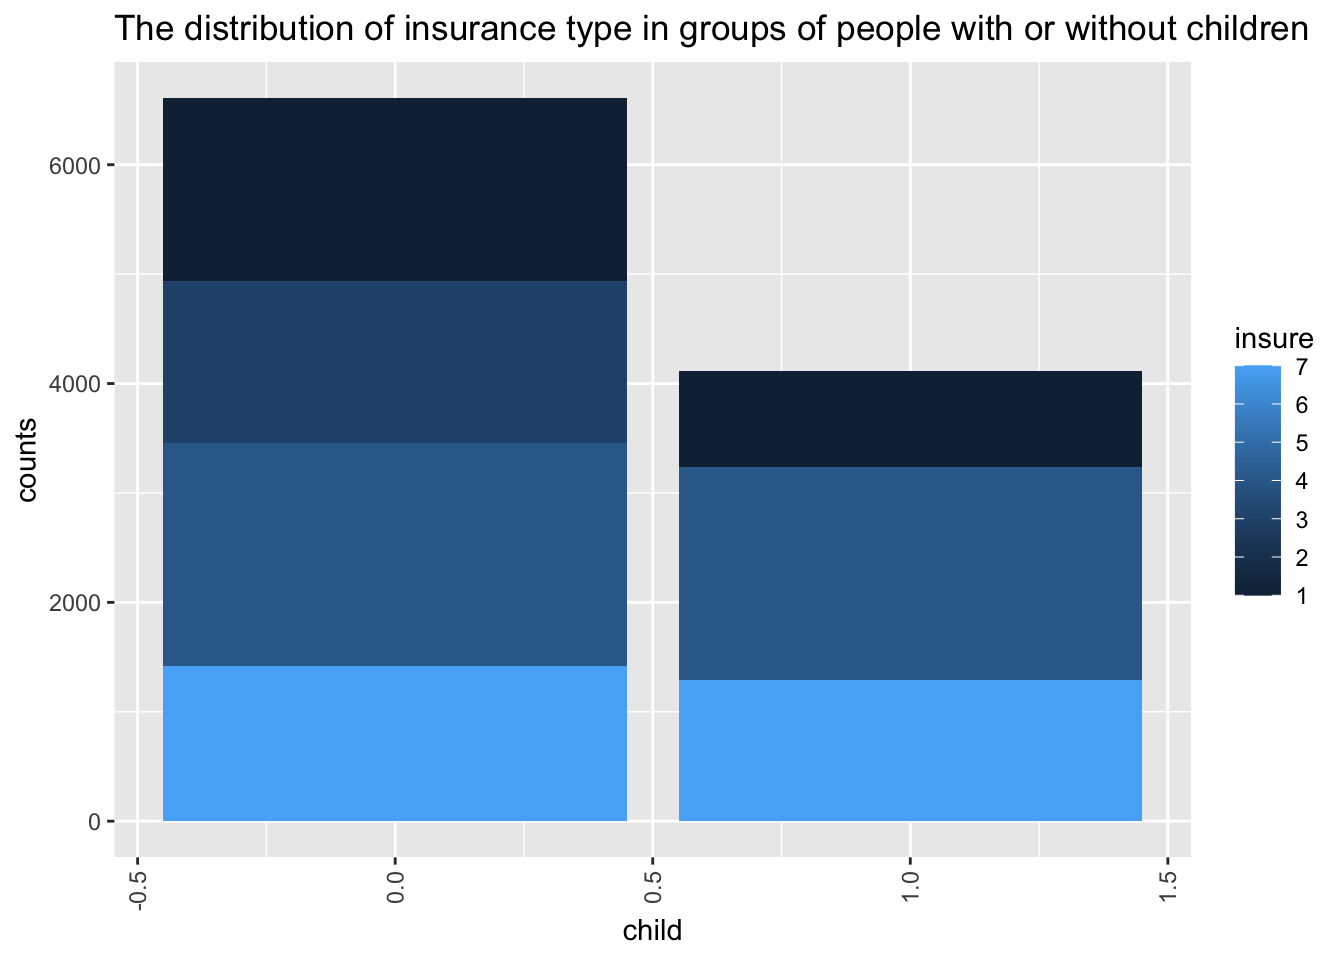
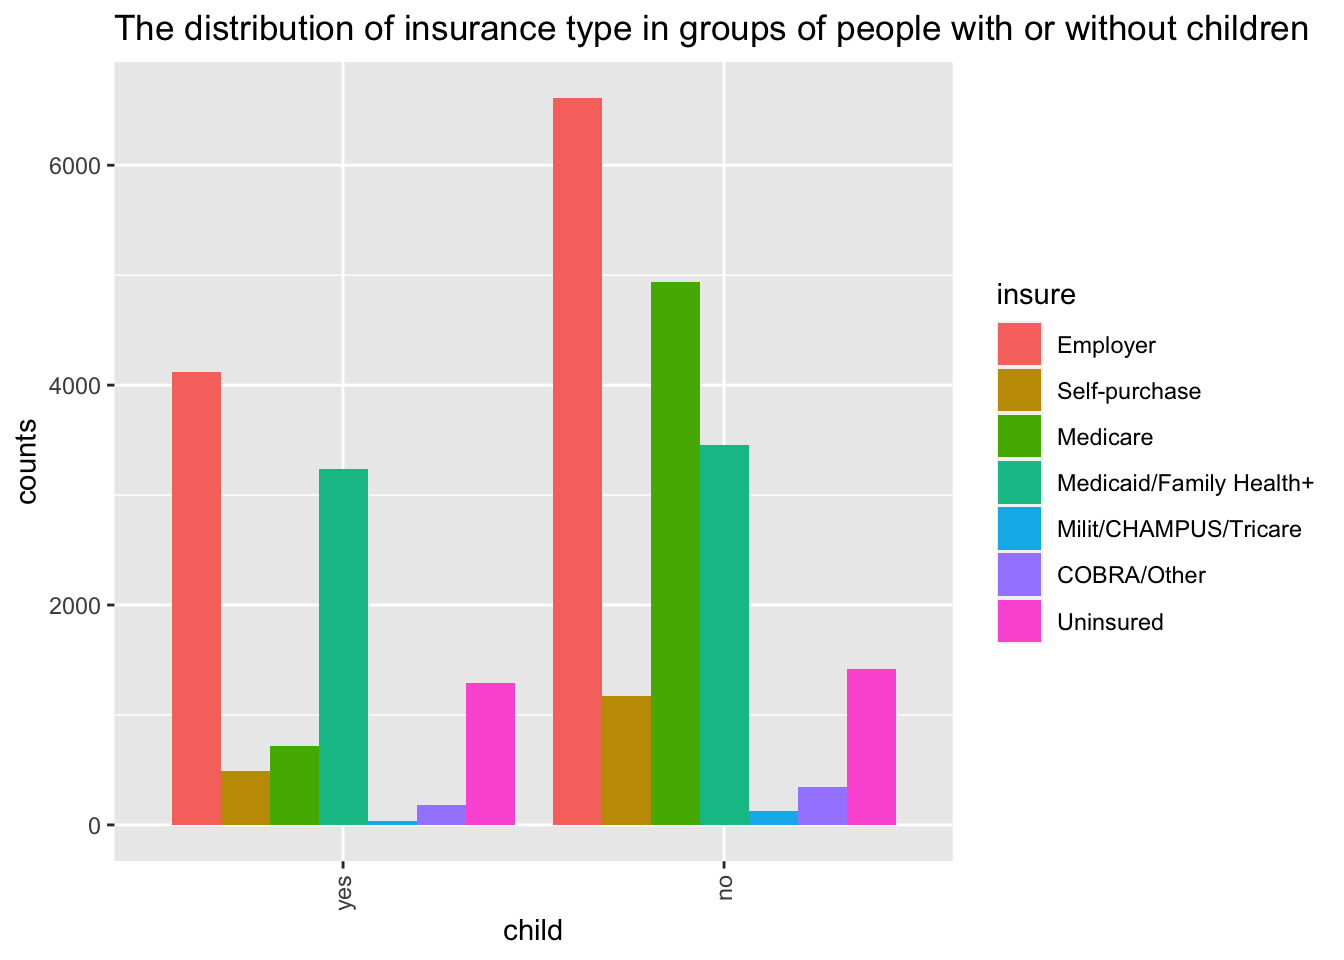
ll

diff --git a/exploration.html b/exploration.html
@@ -253,8 +253,20 @@ $(document).ready(function () {
         <li>
   <a href="exploration.html">Data exploration</a>
 </li>
-<li>
-  <a href="model-building.html">Model building</a>
+<li class="dropdown">
+  <a href="#" class="dropdown-toggle" data-toggle="dropdown" role="button" aria-expanded="false">
+    Model building
+     
+    <span class="caret"></span>
+  </a>
+  <ul class="dropdown-menu" role="menu">
+    <li>
+      <a href="model-building.html">? model building</a>
+    </li>
+    <li>
+      <a href="medical_cost.html">Insurance cost model building</a>
+    </li>
+  </ul>
 </li>
 <li>
   <a href="analysis.html">Analysis and discussion</a>
@@ -264,6 +276,9 @@ $(document).ready(function () {
 </li>
 <li>
   <a href="report.html">Report</a>
+</li>
+<li>
+  <a href="https://yiqunjin.shinyapps.io/shiny_dashboard/">Dashboard</a>
 </li>
 <li>
   <a href="mailto:&lt;yw3772@cumc.columbia.com&gt;">
@@ -300,6 +315,13 @@ $(document).ready(function () {
 
 
 <pre class="r"><code>dataset_basic = read_csv(&quot;data/dataset_update.csv&quot;) %&gt;% 
+  mutate(
+         child = factor(child,levels = c(1,2),labels = c(&quot;yes&quot;,&quot;no&quot;)),
+         sex = factor(sex,labels = c(&quot;male&quot;,&quot;female&quot;)),
+         insure = factor(insure,levels = c(1,2,3,4,5,6,7),labels = c(&quot;Employer&quot;,&quot;Self-purchase&quot;,&quot;Medicare&quot;, &quot;Medicaid/Family Health+&quot;, &quot;Milit/CHAMPUS/Tricare&quot;, &quot;COBRA/Other&quot;, &quot;Uninsured&quot;)),
+         smoker = factor(smoker,levels = c(1,2,3),labels = c(&quot;never&quot;,&quot;current&quot;,&quot;former&quot;)),
+         agegroup = factor(agegroup,ordered = TRUE,labels = c(&quot;18-24yrs&quot;,&quot;25-44yrs&quot;, &quot;45-64yrs&quot;, &quot;65+yrs&quot;))
+         ) %&gt;% 
   select(insure,agegroup,smoker,bmi,child,sex)</code></pre>
 <div id="variables-and-insurance" class="section level3 tabset">
 <h3 class="tabset">Variables and insurance</h3>
@@ -363,20 +385,20 @@ dat %$%
 <td align="center">
 <strong>smoker</strong>
 </td>
-<th colspan="4" align="center"> 1</th>
-<th colspan="4" align="center"> 2</th>
-<th colspan="4" align="center"> 3</th>
-<th colspan="4" align="center"> 4</th>
-<th colspan="4" align="center"> 5</th>
-<th colspan="4" align="center"> 6</th>
-<th colspan="4" align="center"> 7</th>
+<th colspan="4" align="center">Employer</th>
+<th colspan="4" align="center">Self-<br/>purchase</th>
+<th colspan="4" align="center">Medicare</th>
+<th colspan="4" align="center">Medicaid/<br/>Family <br/>Health+</th>
+<th colspan="4" align="center">Milit/<br/>CHAMPUS/<br/>Tricare</th>
+<th colspan="4" align="center">COBRA/Other</th>
+<th colspan="4" align="center">Uninsured</th>
 <th colspan="4" align="center">Total</th>
 </tr>
 </thead>
 <tbody>
 <tr>
 <td>
-<strong align="center"> 1</strong>
+<strong align="center">never</strong>
 </td>
 <td align="right" style="padding:0 0 0 15px;border-right:0;text-align:right">7158</td>
 <td align="left" style="padding:0 1px 0 4px;border-left:0;border-right:0;text-align:left">(</td>
@@ -413,7 +435,7 @@ dat %$%
 </tr>
 <tr>
 <td>
-<strong align="center"> 2</strong>
+<strong align="center">current</strong>
 </td>
 <td align="right" style="padding:0 0 0 15px;border-right:0;text-align:right">1135</td>
 <td align="left" style="padding:0 1px 0 4px;border-left:0;border-right:0;text-align:left">(</td>
@@ -450,7 +472,7 @@ dat %$%
 </tr>
 <tr>
 <td>
-<strong align="center"> 3</strong>
+<strong align="center">former</strong>
 </td>
 <td align="right" style="padding:0 0 0 15px;border-right:0;text-align:right">2425</td>
 <td align="left" style="padding:0 1px 0 4px;border-left:0;border-right:0;text-align:left">(</td>
@@ -600,20 +622,20 @@ dat %$%
 <td align="center">
 <strong>agegroup</strong>
 </td>
-<th colspan="4" align="center"> 1</th>
-<th colspan="4" align="center"> 2</th>
-<th colspan="4" align="center"> 3</th>
-<th colspan="4" align="center"> 4</th>
-<th colspan="4" align="center"> 5</th>
-<th colspan="4" align="center"> 6</th>
-<th colspan="4" align="center"> 7</th>
+<th colspan="4" align="center">Employer</th>
+<th colspan="4" align="center">Self-<br/>purchase</th>
+<th colspan="4" align="center">Medicare</th>
+<th colspan="4" align="center">Medicaid/<br/>Family <br/>Health+</th>
+<th colspan="4" align="center">Milit/<br/>CHAMPUS/<br/>Tricare</th>
+<th colspan="4" align="center">COBRA/Other</th>
+<th colspan="4" align="center">Uninsured</th>
 <th colspan="4" align="center">Total</th>
 </tr>
 </thead>
 <tbody>
 <tr>
 <td>
-<strong align="center"> 1</strong>
+<strong align="center">18-24yrs</strong>
 </td>
 <td align="right" style="padding:0 0 0 15px;border-right:0;text-align:right">647</td>
 <td align="left" style="padding:0 1px 0 4px;border-left:0;border-right:0;text-align:left">(</td>
@@ -650,7 +672,7 @@ dat %$%
 </tr>
 <tr>
 <td>
-<strong align="center"> 2</strong>
+<strong align="center">25-44yrs</strong>
 </td>
 <td align="right" style="padding:0 0 0 15px;border-right:0;text-align:right">3930</td>
 <td align="left" style="padding:0 1px 0 4px;border-left:0;border-right:0;text-align:left">(</td>
@@ -687,7 +709,7 @@ dat %$%
 </tr>
 <tr>
 <td>
-<strong align="center"> 3</strong>
+<strong align="center">45-64yrs</strong>
 </td>
 <td align="right" style="padding:0 0 0 15px;border-right:0;text-align:right">5005</td>
 <td align="left" style="padding:0 1px 0 4px;border-left:0;border-right:0;text-align:left">(</td>
@@ -724,7 +746,7 @@ dat %$%
 </tr>
 <tr>
 <td>
-<strong align="center"> 4</strong>
+<strong align="center">65+yrs</strong>
 </td>
 <td align="right" style="padding:0 0 0 15px;border-right:0;text-align:right">1173</td>
 <td align="left" style="padding:0 1px 0 4px;border-left:0;border-right:0;text-align:left">(</td>
@@ -874,57 +896,20 @@ dat %$%
 <td align="center">
 <strong>child</strong>
 </td>
-<th colspan="4" align="center"> 1</th>
-<th colspan="4" align="center"> 2</th>
-<th colspan="4" align="center"> 3</th>
-<th colspan="4" align="center"> 4</th>
-<th colspan="4" align="center"> 5</th>
-<th colspan="4" align="center"> 6</th>
-<th colspan="4" align="center"> 7</th>
+<th colspan="4" align="center">Employer</th>
+<th colspan="4" align="center">Self-<br/>purchase</th>
+<th colspan="4" align="center">Medicare</th>
+<th colspan="4" align="center">Medicaid/<br/>Family <br/>Health+</th>
+<th colspan="4" align="center">Milit/<br/>CHAMPUS/<br/>Tricare</th>
+<th colspan="4" align="center">COBRA/Other</th>
+<th colspan="4" align="center">Uninsured</th>
 <th colspan="4" align="center">Total</th>
 </tr>
 </thead>
 <tbody>
 <tr>
 <td>
-<strong align="center"> 0</strong>
-</td>
-<td align="right" style="padding:0 0 0 15px;border-right:0;text-align:right">6610</td>
-<td align="left" style="padding:0 1px 0 4px;border-left:0;border-right:0;text-align:left">(</td>
-<td align="left" style="padding:0;border-left:0;border-right:0;text-align:right">36.6%</td>
-<td align="left" style="padding:0 15px 0 1px;border-left:0;text-align:right">)</td>
-<td align="right" style="padding:0 0 0 15px;border-right:0;text-align:right">1169</td>
-<td align="left" style="padding:0 1px 0 4px;border-left:0;border-right:0;text-align:left">(</td>
-<td align="left" style="padding:0;border-left:0;border-right:0;text-align:right">6.5%</td>
-<td align="left" style="padding:0 15px 0 1px;border-left:0;text-align:right">)</td>
-<td align="right" style="padding:0 0 0 15px;border-right:0;text-align:right">4940</td>
-<td align="left" style="padding:0 1px 0 4px;border-left:0;border-right:0;text-align:left">(</td>
-<td align="left" style="padding:0;border-left:0;border-right:0;text-align:right">27.4%</td>
-<td align="left" style="padding:0 15px 0 1px;border-left:0;text-align:right">)</td>
-<td align="right" style="padding:0 0 0 15px;border-right:0;text-align:right">3457</td>
-<td align="left" style="padding:0 1px 0 4px;border-left:0;border-right:0;text-align:left">(</td>
-<td align="left" style="padding:0;border-left:0;border-right:0;text-align:right">19.1%</td>
-<td align="left" style="padding:0 15px 0 1px;border-left:0;text-align:right">)</td>
-<td align="right" style="padding:0 0 0 15px;border-right:0;text-align:right">127</td>
-<td align="left" style="padding:0 1px 0 4px;border-left:0;border-right:0;text-align:left">(</td>
-<td align="left" style="padding:0;border-left:0;border-right:0;text-align:right">0.7%</td>
-<td align="left" style="padding:0 15px 0 1px;border-left:0;text-align:right">)</td>
-<td align="right" style="padding:0 0 0 15px;border-right:0;text-align:right">342</td>
-<td align="left" style="padding:0 1px 0 4px;border-left:0;border-right:0;text-align:left">(</td>
-<td align="left" style="padding:0;border-left:0;border-right:0;text-align:right">1.9%</td>
-<td align="left" style="padding:0 15px 0 1px;border-left:0;text-align:right">)</td>
-<td align="right" style="padding:0 0 0 15px;border-right:0;text-align:right">1416</td>
-<td align="left" style="padding:0 1px 0 4px;border-left:0;border-right:0;text-align:left">(</td>
-<td align="left" style="padding:0;border-left:0;border-right:0;text-align:right">7.8%</td>
-<td align="left" style="padding:0 15px 0 1px;border-left:0;text-align:right">)</td>
-<td align="right" style="padding:0 0 0 15px;border-right:0;text-align:right">18061</td>
-<td align="left" style="padding:0 1px 0 4px;border-left:0;border-right:0;text-align:left">(</td>
-<td align="left" style="padding:0;border-left:0;border-right:0;text-align:right">100.0%</td>
-<td align="left" style="padding:0 15px 0 1px;border-left:0;text-align:right">)</td>
-</tr>
-<tr>
-<td>
-<strong align="center"> 1</strong>
+<strong align="center">yes</strong>
 </td>
 <td align="right" style="padding:0 0 0 15px;border-right:0;text-align:right">4119</td>
 <td align="left" style="padding:0 1px 0 4px;border-left:0;border-right:0;text-align:left">(</td>
@@ -955,6 +940,43 @@ dat %$%
 <td align="left" style="padding:0;border-left:0;border-right:0;text-align:right">12.8%</td>
 <td align="left" style="padding:0 15px 0 1px;border-left:0;text-align:right">)</td>
 <td align="right" style="padding:0 0 0 15px;border-right:0;text-align:right">10067</td>
+<td align="left" style="padding:0 1px 0 4px;border-left:0;border-right:0;text-align:left">(</td>
+<td align="left" style="padding:0;border-left:0;border-right:0;text-align:right">100.0%</td>
+<td align="left" style="padding:0 15px 0 1px;border-left:0;text-align:right">)</td>
+</tr>
+<tr>
+<td>
+<strong align="center">no</strong>
+</td>
+<td align="right" style="padding:0 0 0 15px;border-right:0;text-align:right">6610</td>
+<td align="left" style="padding:0 1px 0 4px;border-left:0;border-right:0;text-align:left">(</td>
+<td align="left" style="padding:0;border-left:0;border-right:0;text-align:right">36.6%</td>
+<td align="left" style="padding:0 15px 0 1px;border-left:0;text-align:right">)</td>
+<td align="right" style="padding:0 0 0 15px;border-right:0;text-align:right">1169</td>
+<td align="left" style="padding:0 1px 0 4px;border-left:0;border-right:0;text-align:left">(</td>
+<td align="left" style="padding:0;border-left:0;border-right:0;text-align:right">6.5%</td>
+<td align="left" style="padding:0 15px 0 1px;border-left:0;text-align:right">)</td>
+<td align="right" style="padding:0 0 0 15px;border-right:0;text-align:right">4940</td>
+<td align="left" style="padding:0 1px 0 4px;border-left:0;border-right:0;text-align:left">(</td>
+<td align="left" style="padding:0;border-left:0;border-right:0;text-align:right">27.4%</td>
+<td align="left" style="padding:0 15px 0 1px;border-left:0;text-align:right">)</td>
+<td align="right" style="padding:0 0 0 15px;border-right:0;text-align:right">3457</td>
+<td align="left" style="padding:0 1px 0 4px;border-left:0;border-right:0;text-align:left">(</td>
+<td align="left" style="padding:0;border-left:0;border-right:0;text-align:right">19.1%</td>
+<td align="left" style="padding:0 15px 0 1px;border-left:0;text-align:right">)</td>
+<td align="right" style="padding:0 0 0 15px;border-right:0;text-align:right">127</td>
+<td align="left" style="padding:0 1px 0 4px;border-left:0;border-right:0;text-align:left">(</td>
+<td align="left" style="padding:0;border-left:0;border-right:0;text-align:right">0.7%</td>
+<td align="left" style="padding:0 15px 0 1px;border-left:0;text-align:right">)</td>
+<td align="right" style="padding:0 0 0 15px;border-right:0;text-align:right">342</td>
+<td align="left" style="padding:0 1px 0 4px;border-left:0;border-right:0;text-align:left">(</td>
+<td align="left" style="padding:0;border-left:0;border-right:0;text-align:right">1.9%</td>
+<td align="left" style="padding:0 15px 0 1px;border-left:0;text-align:right">)</td>
+<td align="right" style="padding:0 0 0 15px;border-right:0;text-align:right">1416</td>
+<td align="left" style="padding:0 1px 0 4px;border-left:0;border-right:0;text-align:left">(</td>
+<td align="left" style="padding:0;border-left:0;border-right:0;text-align:right">7.8%</td>
+<td align="left" style="padding:0 15px 0 1px;border-left:0;text-align:right">)</td>
+<td align="right" style="padding:0 0 0 15px;border-right:0;text-align:right">18061</td>
 <td align="left" style="padding:0 1px 0 4px;border-left:0;border-right:0;text-align:left">(</td>
 <td align="left" style="padding:0;border-left:0;border-right:0;text-align:right">100.0%</td>
 <td align="left" style="padding:0 15px 0 1px;border-left:0;text-align:right">)</td>
@@ -1011,7 +1033,6 @@ dat %$%
 ) +
   labs(caption = NULL) # remove caption</code></pre>
 <p><img src="exploration_files/figure-html/unnamed-chunk-7-1.png" width="672" /></p>
-<p>According to above chi-square test result We reject the null hypothesis and conclude that there’s at least one helath stutus group’s proportions of insurance type is different from others at 0.05 significant level.</p>
 </div>
 </div>
 <div id="bmi" class="section level4">
@@ -1025,8 +1046,10 @@ dat %$%
   
   
 analyse_bmi_insurancetype %&gt;% 
-  ggplot(aes(x = insure, y = bmi)) + 
-  geom_boxplot() +
+  ggplot(aes(x = insure, y = bmi,fill = insure)) + 
+  geom_boxplot(alpha = 0.3) +
+    theme(legend.position = &quot;none&quot;) +
+    scale_fill_brewer(palette = &quot;BuPu&quot;) +
   theme(
     axis.text.x = element_text(angle = 90, vjust = .5, hjust = 1)
   ) +
@@ -1034,14 +1057,72 @@ analyse_bmi_insurancetype %&gt;%
       x = &#39;insurance&#39;,
       y = &#39;bmi&#39;,
       title = &#39;The distribution of bmi in groups having different insurance type&#39;)</code></pre>
-<pre><code>## Warning: Continuous x aesthetic -- did you forget aes(group=...)?</code></pre>
 <p><img src="exploration_files/figure-html/unnamed-chunk-8-1.png" width="672" /></p>
 </div>
-<div id="anova-test-between-insurance-type-and-medical-care-accessibility" class="section level5">
-<h5>ANOVA test between insurance type and medical care accessibility</h5>
-<p><span class="math inline">\(H_0\)</span> : insurance type and bmi are independent, there is no relationship between the two categorical variables.</p>
-<p><span class="math inline">\(H_1\)</span> : insurance type and medical care accessibility are dependent, there is a relationship between the two categorical variables.</p>
+<div id="anova-test-between-insurance-type-and-bmi" class="section level5">
+<h5>ANOVA test between insurance type and BMI</h5>
 <p><em>Test result:</em></p>
+<pre class="r"><code>anova = aov( bmi ~insure, data = analyse_bmi_insurancetype)
+summary(anova)</code></pre>
+<pre><code>##                Df  Sum Sq Mean Sq F value   Pr(&gt;F)    
+## insure          6    2435   405.9   10.88 3.88e-12 ***
+## Residuals   26917 1003942    37.3                     
+## ---
+## Signif. codes:  0 &#39;***&#39; 0.001 &#39;**&#39; 0.01 &#39;*&#39; 0.05 &#39;.&#39; 0.1 &#39; &#39; 1</code></pre>
+<pre class="r"><code>Tukey_comp = TukeyHSD(anova)
+Tukey_comp </code></pre>
+<pre><code>##   Tukey multiple comparisons of means
+##     95% family-wise confidence level
+## 
+## Fit: aov(formula = bmi ~ insure, data = analyse_bmi_insurancetype)
+## 
+## $insure
+##                                                      diff         lwr
+## Self-purchase-Employer                        -0.88485587 -1.37035824
+## Medicare-Employer                              0.24105414 -0.06081829
+## Medicaid/Family Health+-Employer               0.40206572  0.11583584
+## Milit/CHAMPUS/Tricare-Employer                 0.31164413 -1.11409717
+## COBRA/Other-Employer                          -0.16406141 -0.98858946
+## Uninsured-Employer                            -0.05805857 -0.45898559
+## Medicare-Self-purchase                         1.12591001  0.61209943
+## Medicaid/Family Health+-Self-purchase          1.28692159  0.78214254
+## Milit/CHAMPUS/Tricare-Self-purchase            1.19650000 -0.28863050
+## COBRA/Other-Self-purchase                      0.72079446 -0.20263440
+## Uninsured-Self-purchase                        0.82679730  0.24920158
+## Medicaid/Family Health+-Medicare               0.16101158 -0.17097684
+## Milit/CHAMPUS/Tricare-Medicare                 0.07058998 -1.36503775
+## COBRA/Other-Medicare                          -0.40511556 -1.24662329
+## Uninsured-Medicare                            -0.29911271 -0.73388994
+## Milit/CHAMPUS/Tricare-Medicaid/Family Health+ -0.09042159 -1.52284178
+## COBRA/Other-Medicaid/Family Health+           -0.56612713 -1.40215096
+## Uninsured-Medicaid/Family Health+             -0.46012429 -0.88419011
+## COBRA/Other-Milit/CHAMPUS/Tricare             -0.47570554 -2.10350975
+## Uninsured-Milit/CHAMPUS/Tricare               -0.36970270 -1.82937475
+## Uninsured-COBRA/Other                          0.10600284 -0.77589895
+##                                                       upr     p adj
+## Self-purchase-Employer                        -0.39935350 0.0000016
+## Medicare-Employer                              0.54292657 0.2183572
+## Medicaid/Family Health+-Employer               0.68829560 0.0006839
+## Milit/CHAMPUS/Tricare-Employer                 1.73738542 0.9953019
+## COBRA/Other-Employer                           0.66046663 0.9972050
+## Uninsured-Employer                             0.34286845 0.9995400
+## Medicare-Self-purchase                         1.63972059 0.0000000
+## Medicaid/Family Health+-Self-purchase          1.79170064 0.0000000
+## Milit/CHAMPUS/Tricare-Self-purchase            2.68163049 0.2090069
+## COBRA/Other-Self-purchase                      1.64422331 0.2431533
+## Uninsured-Self-purchase                        1.40439303 0.0004867
+## Medicaid/Family Health+-Medicare               0.49299999 0.7857101
+## Milit/CHAMPUS/Tricare-Medicare                 1.50621772 0.9999992
+## COBRA/Other-Medicare                           0.43639218 0.7915613
+## Uninsured-Medicare                             0.13566452 0.3965263
+## Milit/CHAMPUS/Tricare-Medicaid/Family Health+  1.34199859 0.9999965
+## COBRA/Other-Medicaid/Family Health+            0.26989670 0.4167846
+## Uninsured-Medicaid/Family Health+             -0.03605847 0.0233438
+## COBRA/Other-Milit/CHAMPUS/Tricare              1.15209867 0.9780791
+## Uninsured-Milit/CHAMPUS/Tricare                1.08996936 0.9895922
+## Uninsured-COBRA/Other                          0.98790464 0.9998440</code></pre>
+<pre class="r"><code>plot(Tukey_comp)</code></pre>
+<p><img src="exploration_files/figure-html/unnamed-chunk-9-1.png" width="672" /></p>
 </div>
 </div>
 </div>
